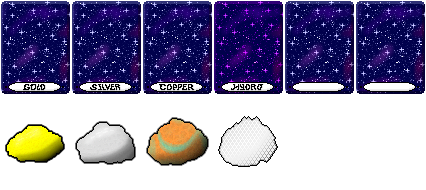
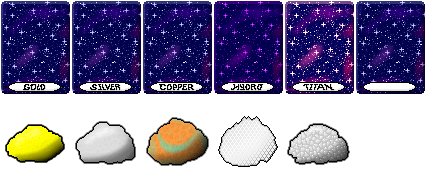
Added Titanium Pile

Changed region(s): [[0.6714, 0.0, 0.8545, 0.5], [0.6714, 0.6316, 0.8239, 0.8684]]

diff --git a/README.md b/README.md
@@ -5,7 +5,6 @@ Currently it adds a few jokers, new type of joker and booster packs for this new
 ## New type of jokers - Pile jokers
 Pile jokers are jokers that are literally just a pile of some (generally) metal.
 There are 4 booster packs for Pile jokers (2 normal, 1 jumbo, 1 mega). Because the Pile jokers appear very rarely in the shop.
-All Pile jokers generally decrease their value after shop reroll.
 
 ## Coming soon - New type of consumables - Alphabet cards
 Alphabet cards ***will be*** a new type of consumables, consisting of 24 Greek letters, and a few more of secret ones!
